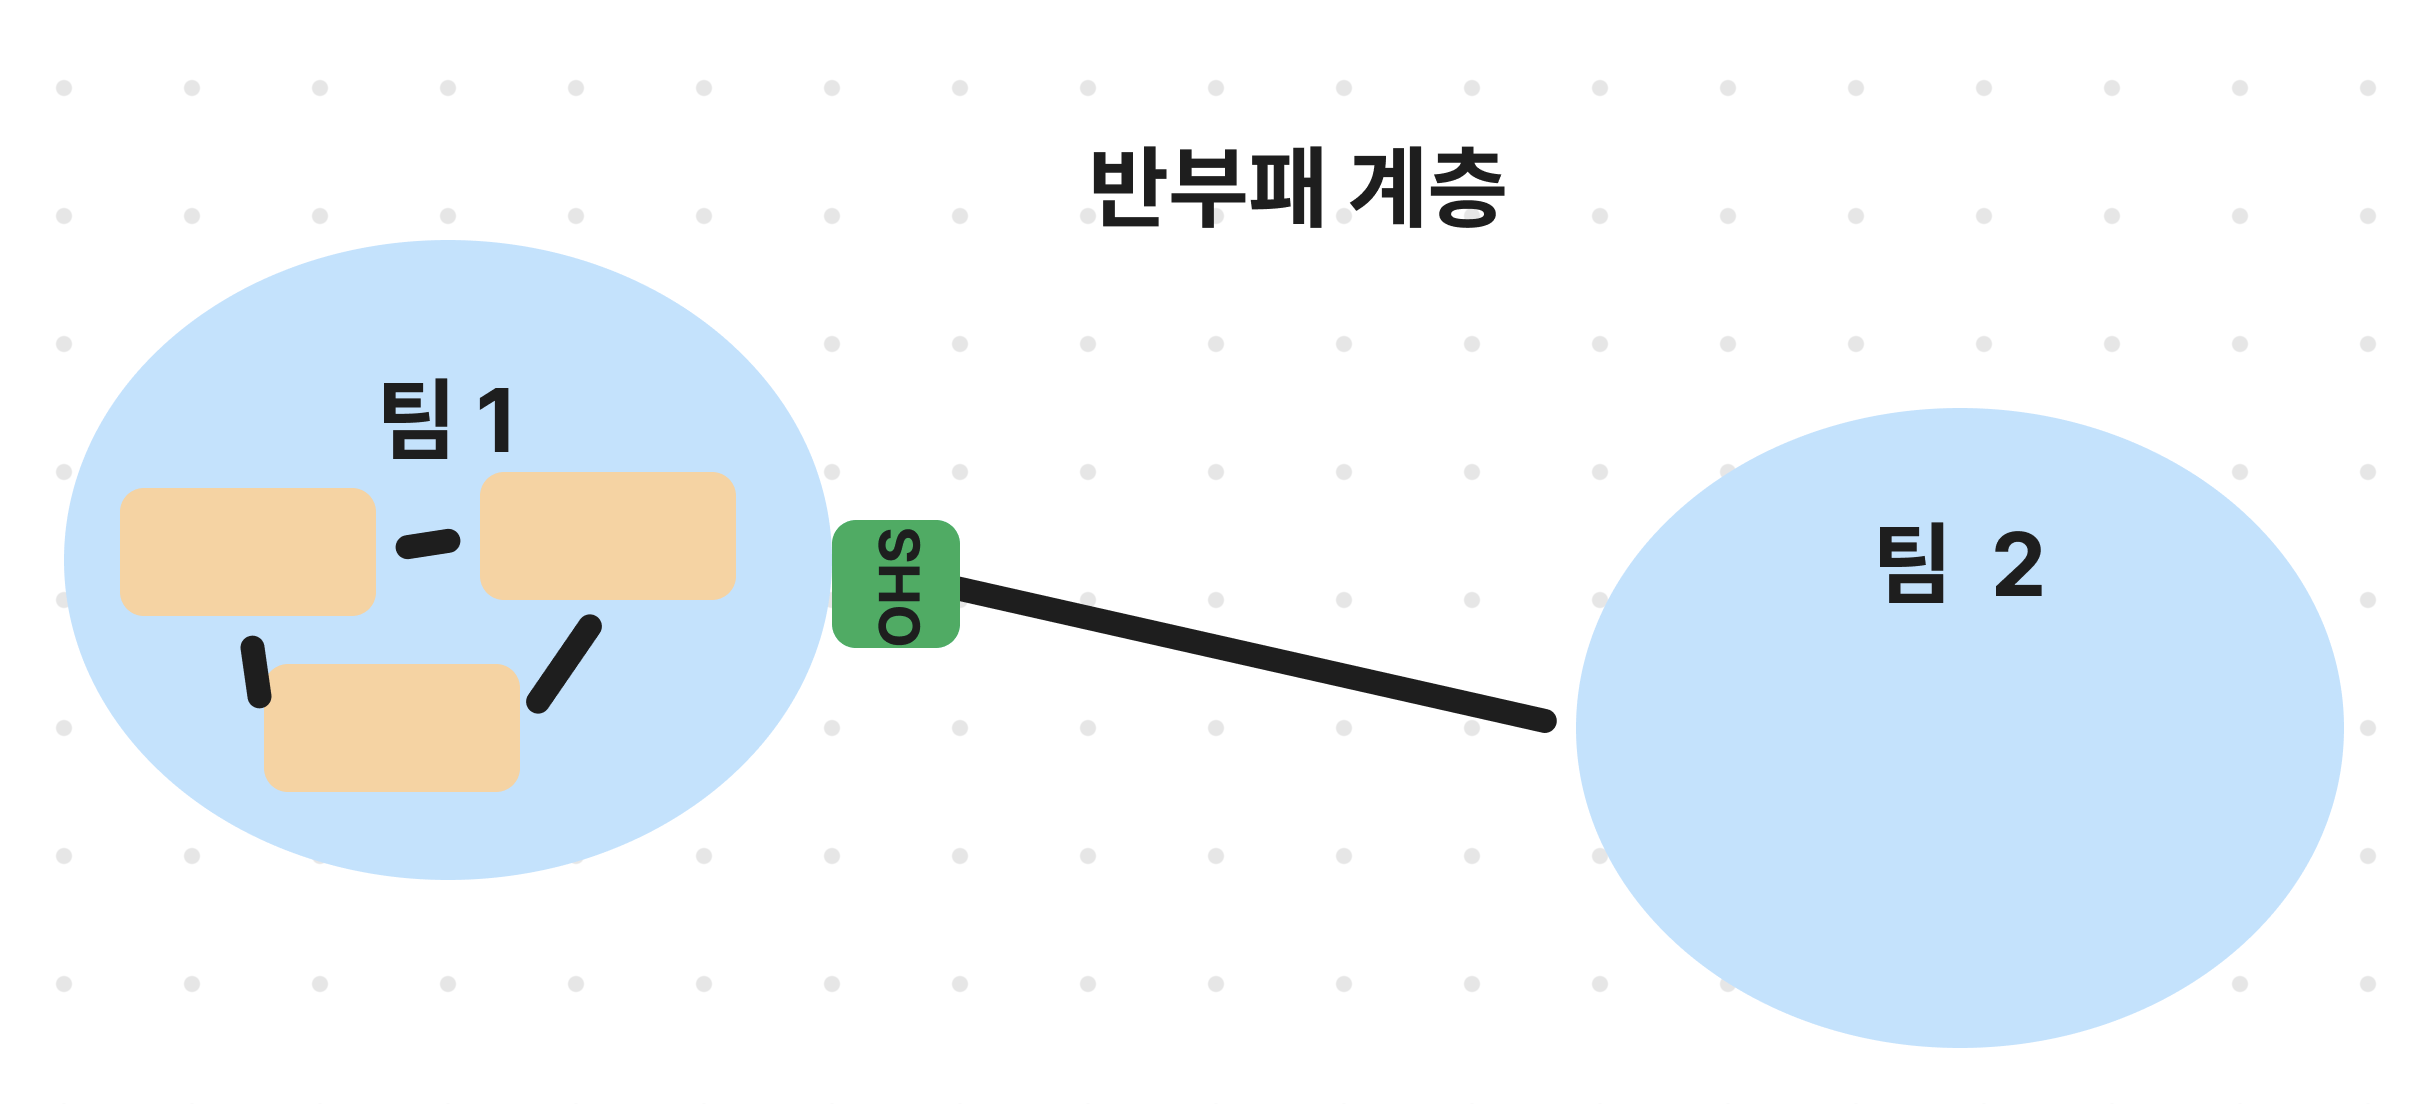
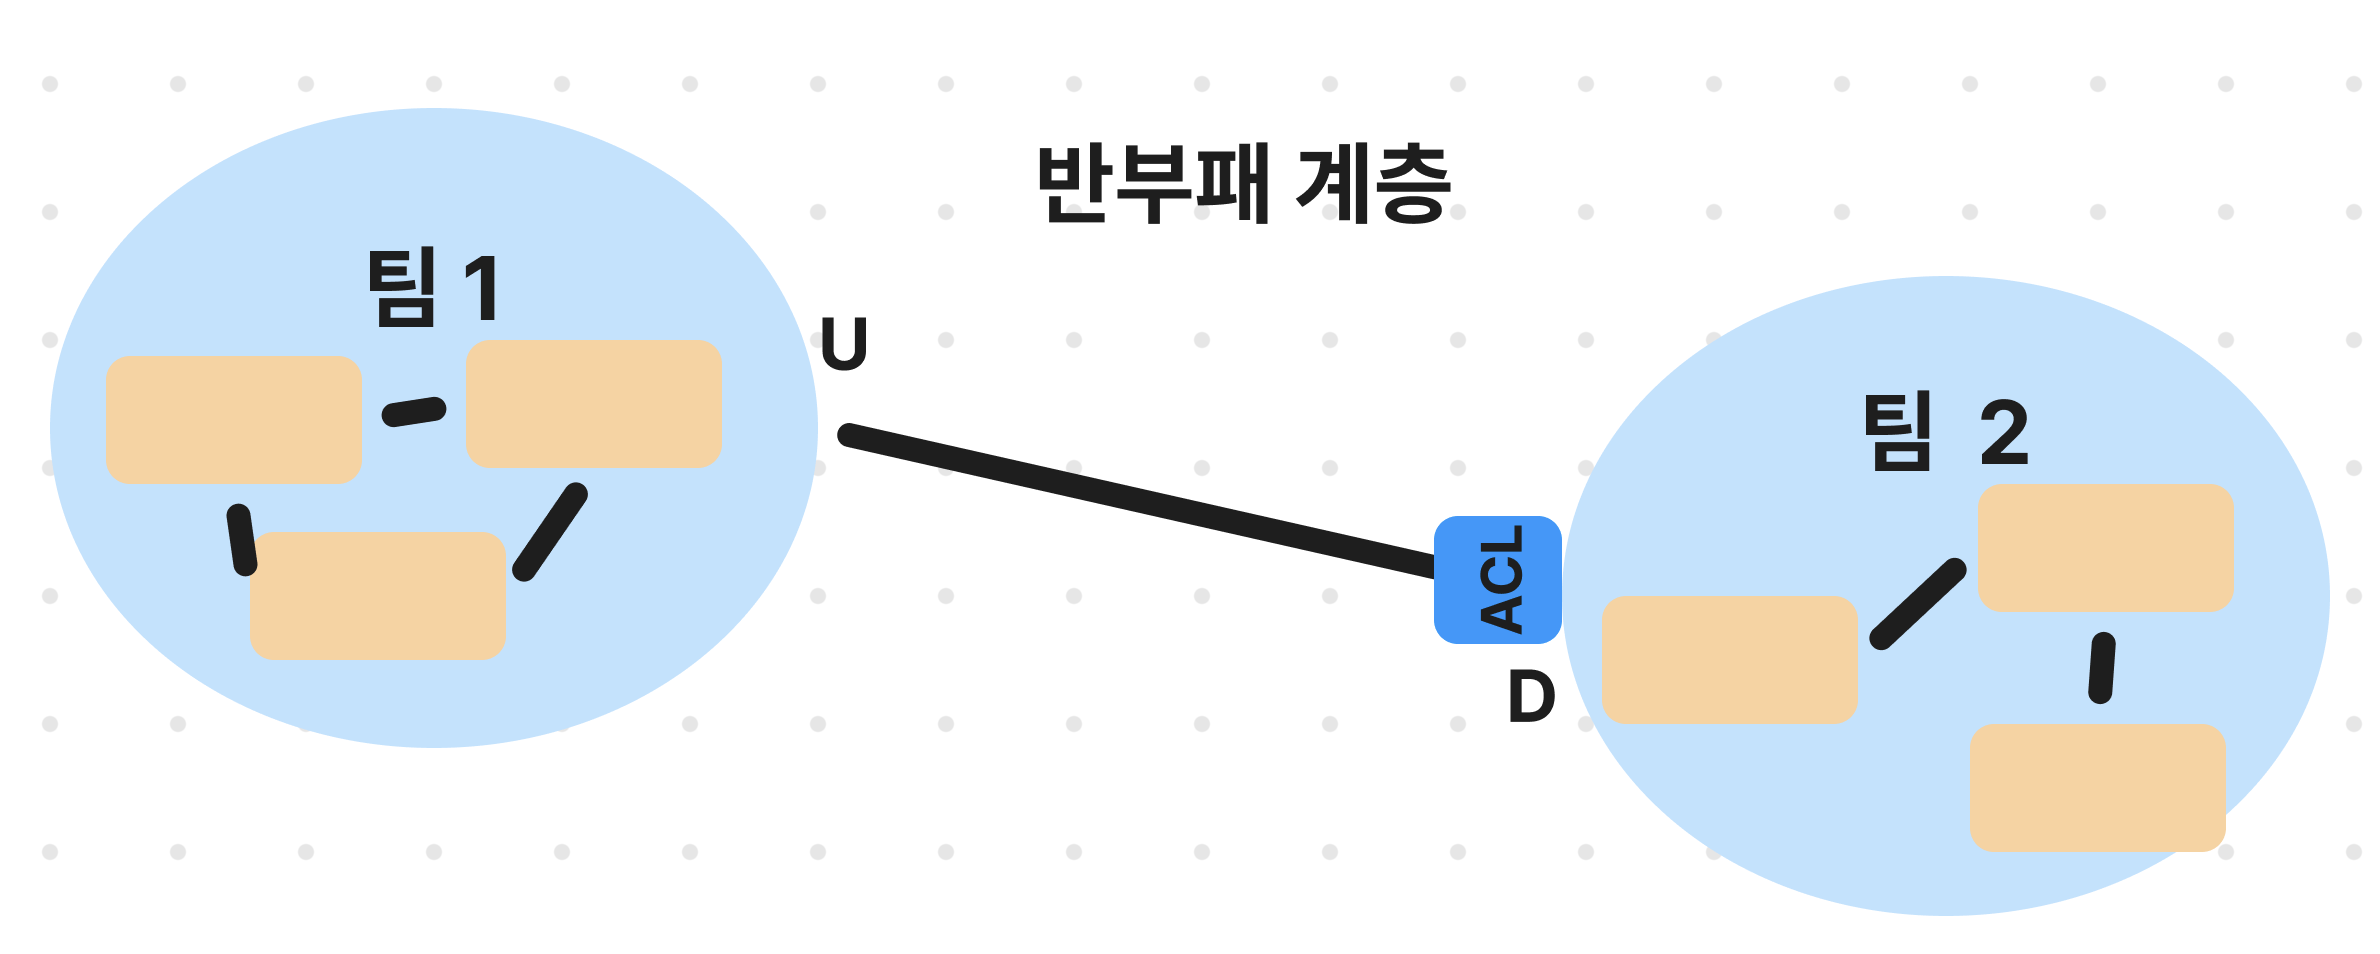
Add: add Open Host Service, one of context mapping

diff --git a/Books/Domain-Driven-Design-Distilled/ch.4.md b/Books/Domain-Driven-Design-Distilled/ch.4.md
@@ -80,3 +80,16 @@
 
 - 하류 팀과 상류 팀 사이의 번역계층은 상류 모델로 부터 하류모델을 독립시키고 둘 사이를 번역한다.
 - 가능하다면 하류모델과 상류 통합 모델 사이에 반부패 계층을 만들어 통합에 용이한 모델 개념들을 만들고, 원하는 형태의 특정 비즈니스 요구도 맞추며, 외부의 이질적인 개념으로부터 독립성을 유지시키는 것이 좋다.
+
+<br>
+
+> **공개 호스트 서비스**
+
+![OpenHostServic](/img/OpenHostServic.png)
+
+공개 호스트 서비스(Open Host Service)는 일련의 서비스 처럼 바운디드 컨텍스트에 대한 접근을 제공하는 프로토콜이나 인터페이스를 정의한다.
+
+- 프로토콜은 바운디드 컨텍스트와 통합하고자 하는 모두가 용이하게 사용할 수 있도록 "공개" 한다.
+- API(애플리케이션 프로그래밍 인터페이스)로 제공하는 서비스는 문서화가 잘되어있어야한다.
+
+<br>
